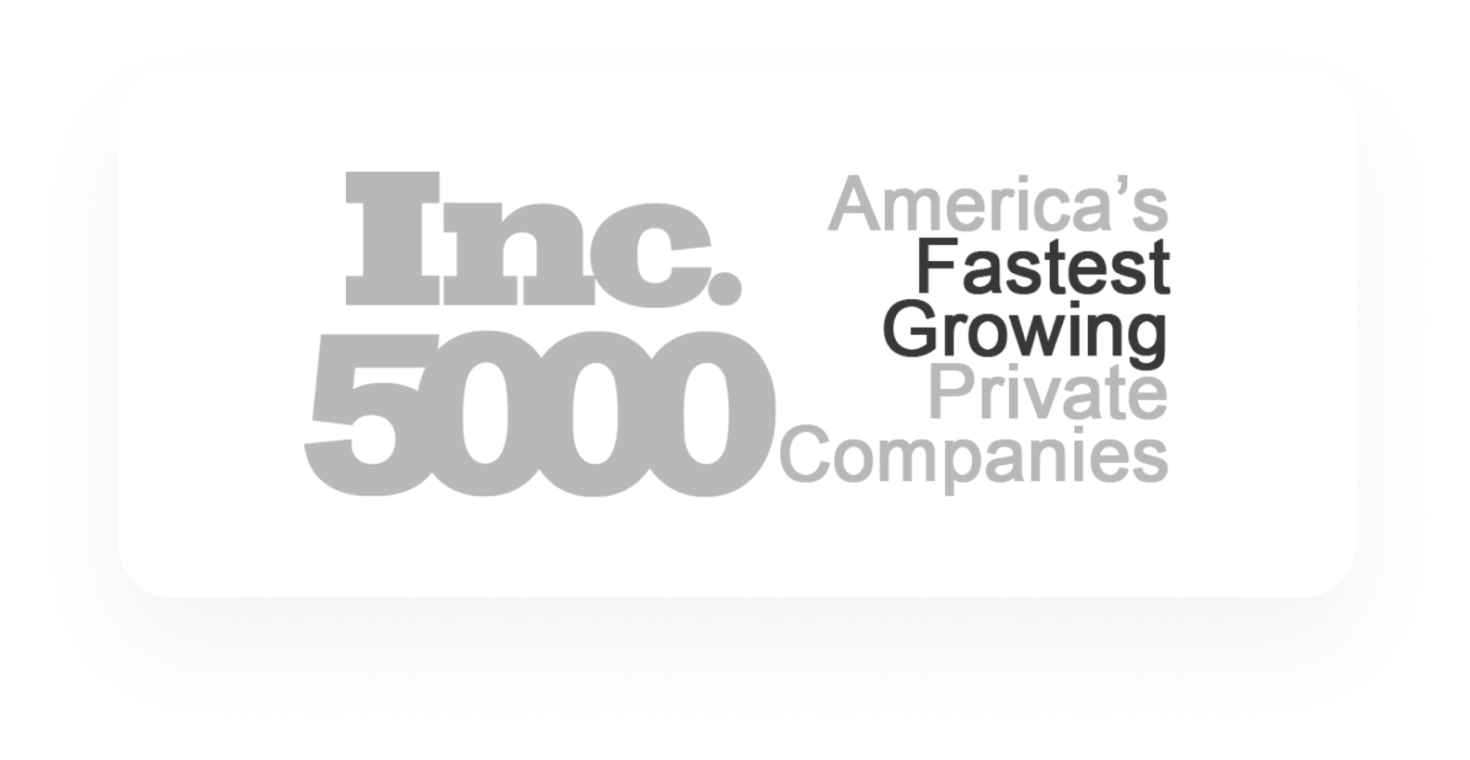
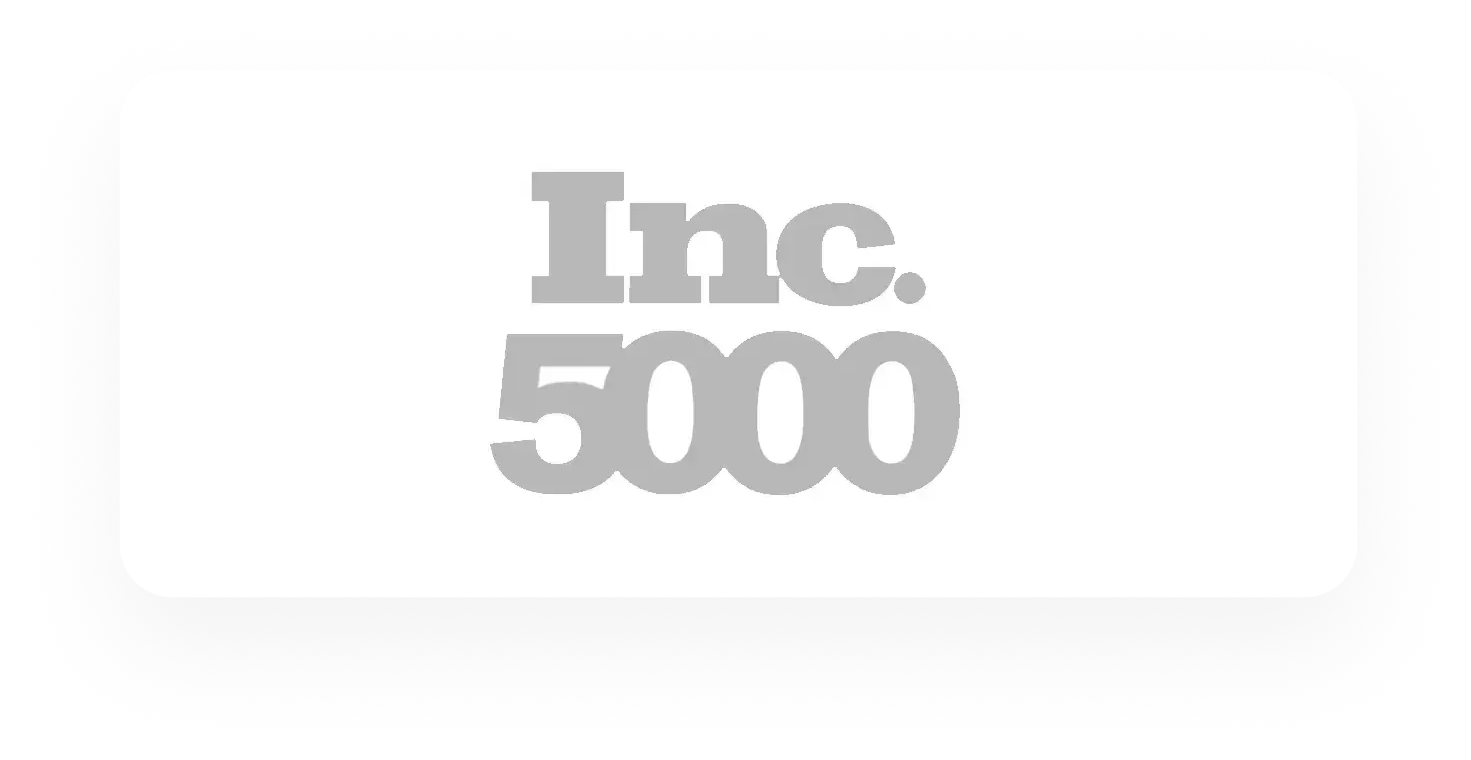
dgg

Changed region(s): [[0.1837, 0.2118, 0.7959, 0.6658]]

diff --git a/src/components/LandingPage/BannerLP.js b/src/components/LandingPage/BannerLP.js
@@ -119,13 +119,21 @@ const Lpbanner = ({ updatePopupTitle }) => {
                                 style={{ marginRight: '10px' }} 
                             /> */}
                             <h1 className="lpbanner-heading">
-                                Web Design <br />
+                                Custom Web Design <br />
                                 Starts from <span className="lpbanner-price"><img className="saleprice" src={saleprice} alt="199" /></span>
                             </h1>
                         </div>
 
                         <div className="lp-banner-margin">
-                            <p className="lpbanner-text">Web Design Mania is your ultimate toolkit for visionary web development, packed with advanced features to supercharge your digital journey. </p>
+                            <p className="lpbanner-text">Web Design Mania delivers visionary web design and development services, including 
+                                custom websites, responsive design, e-commerce solutions, SEO optimization, and user-friendly interfaces to 
+                                enhance your digital presence.</p>
+                                <ul className="lpbanner-points">
+                                <li>Top-Ranked Web Design Agency in the UK</li>
+                                <li>Recognised for Award-Winning Web Designers</li>
+                                <li>Reliable performance with top-notch security measures</li>
+                                <li>Custom Web Design Solutions for Every Industry</li>
+                            </ul>
                             <div className="lpbanner-buttons">
                                 <button className="btn btn-dark lpbanner-btn" data-bs-toggle="modal" data-bs-target="#popupForm" onClick={() => updatePopupTitle('Website Starter Package - £199')}>Get Started</button>
                                 <a className="btn btn-outline-light lpbanner-btn" href="#pricing-section" >View Pricing</a>

diff --git a/src/pages/LandingPage/Lp.js b/src/pages/LandingPage/Lp.js
@@ -8,7 +8,7 @@ import ImageRightBanner from "../../components/Aboutus/ImageRightbanner"
 import lpImage from "../../images/lpimageleft.png"
 import LpServiceIconBox from "../../components/LandingPage/LpServiceIconBox"
 import serviceiconbox1 from "../../images/lpicon1.png"
-import serviceiconbox2 from "../../images/lpicon2.png"
+import serviceiconbox2 from "../../images/inc500.png"
 import serviceiconbox3 from "../../images/lpicon3.png"
 import TestimonialSection from "../../components/Testimonial"
 import ContactForm from "../../components/ContactForm"
@@ -67,7 +67,7 @@ const steps = [
         image: whyservice1,
         alt: "Custom Web Development",
         title: "Custom Web Development",
-        description: "Custom website websites built from scratch to meet specific business needs."
+        description: "We specialise in building custom websites designed to meet and fulfill the unique requirements of your business. Each website is meticulously crafted to align with your goals, ensuring a seamless online presence."
     },
     {
         image: whyservice2,

diff --git a/src/LandingPage.css b/src/LandingPage.css
@@ -66,7 +66,8 @@
     /* background: darkblue; */
     background-size: cover;
     background-position: center;
-    padding: 50px 0;
+    padding-top: 50px;
+    padding-bottom: 124px;
 }
 
 .lpbanner-logo {
@@ -82,6 +83,41 @@
     /* display: flex; */
     align-items: center;
 }
+
+
+
+.lpbanner-points {
+    list-style: none;
+    padding: 0;
+    margin-top: 15px;
+}
+
+.lpbanner-points li {
+    font-size: 16px;
+    font-weight: 400;
+    color: #fff; /* White text */
+    margin-bottom: 5px;
+    position: relative;
+    padding-left: 25px;
+}
+
+.lpbanner-points li::before {
+    content: "✔";
+    color: #ED5E39; /* Orange tick */
+    font-size: 16px;
+    font-weight: bold;
+    position: absolute;
+    left: 0;
+    top: 0;
+}
+
+
+
+
+
+
+
+
 
 
 .lpbanner-bracket {
